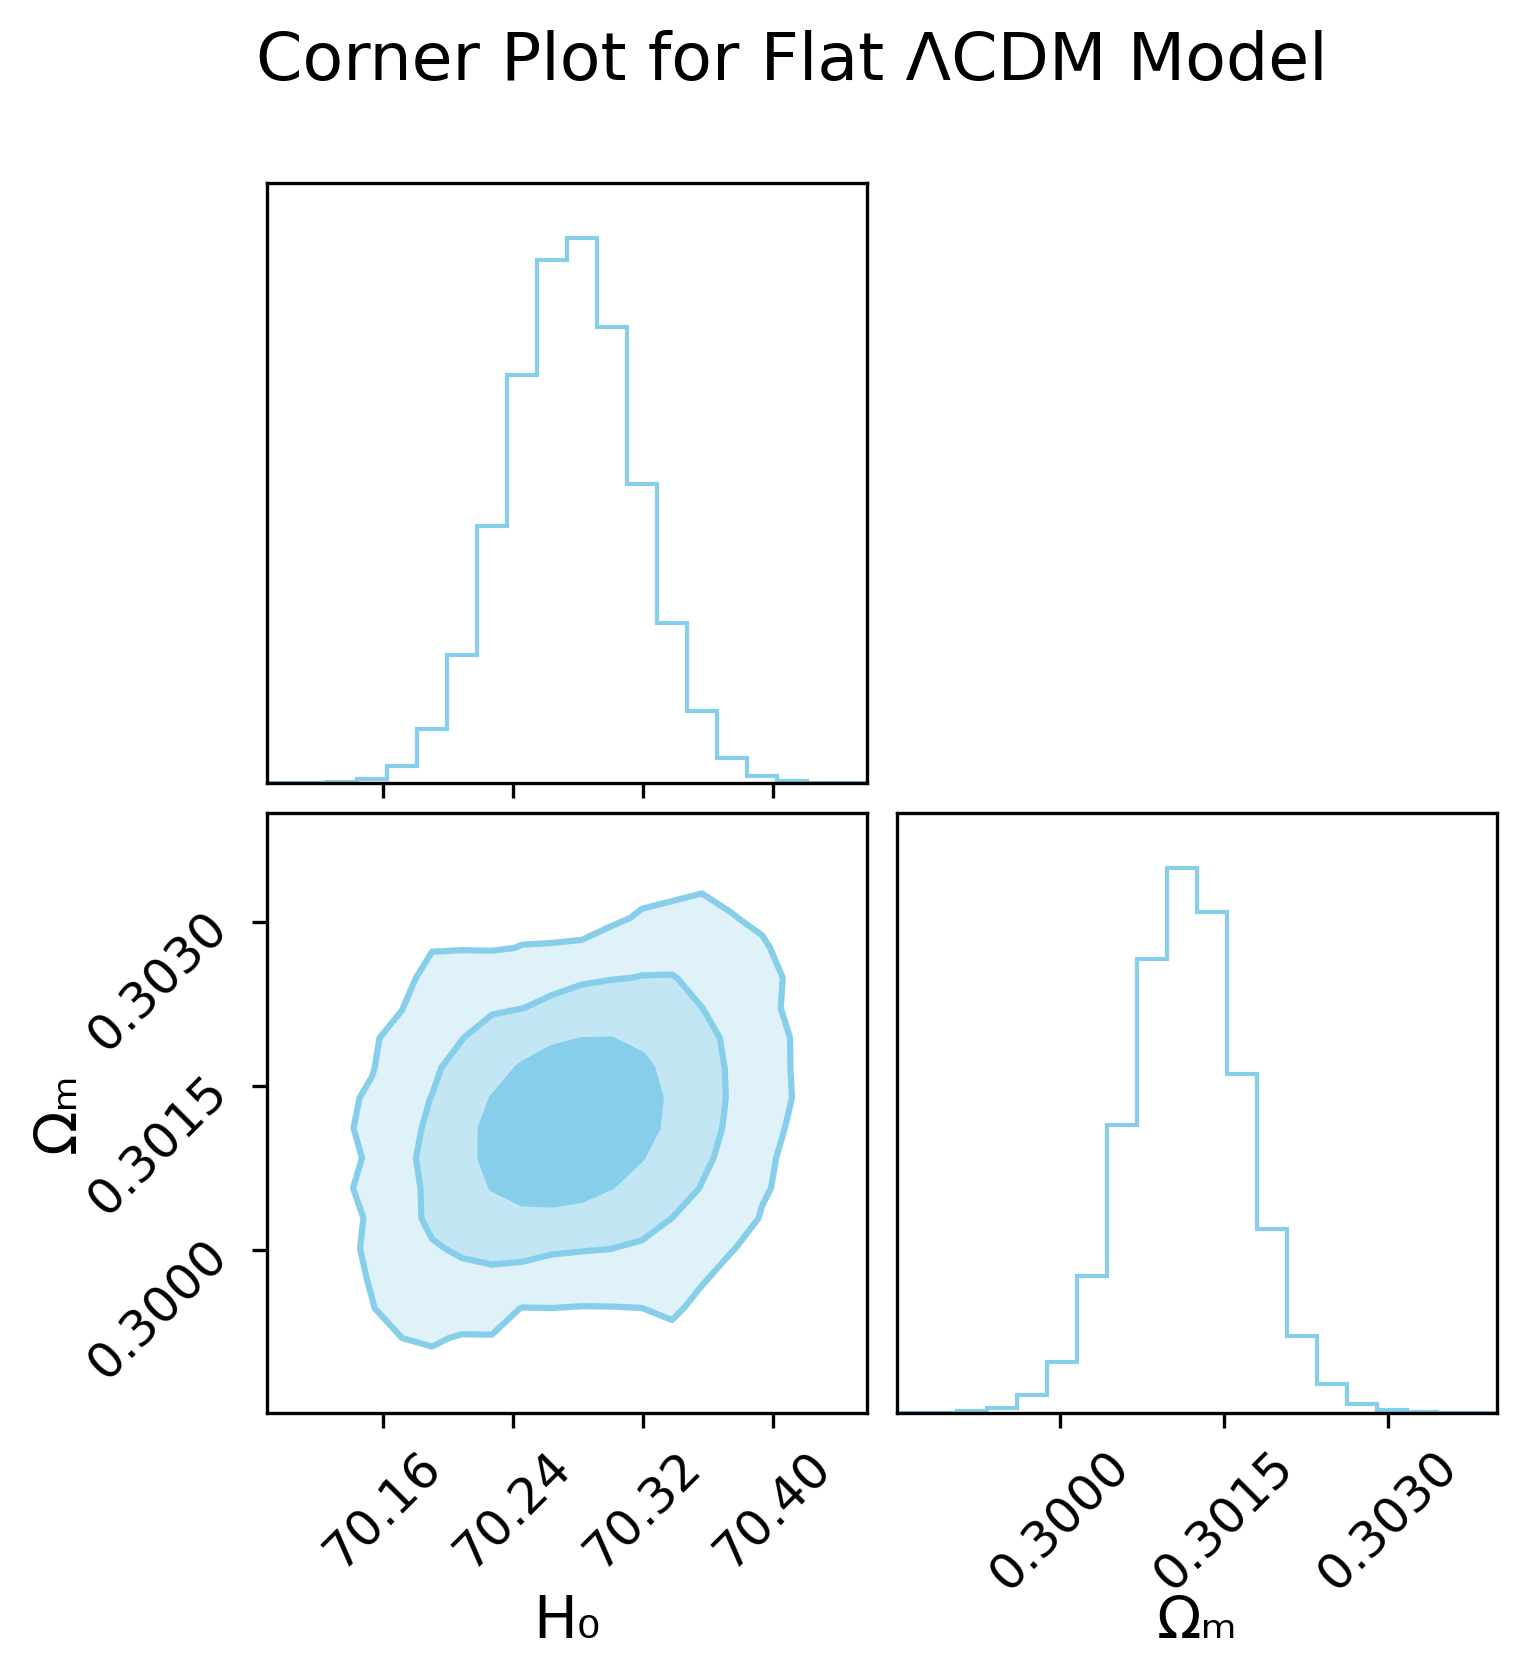
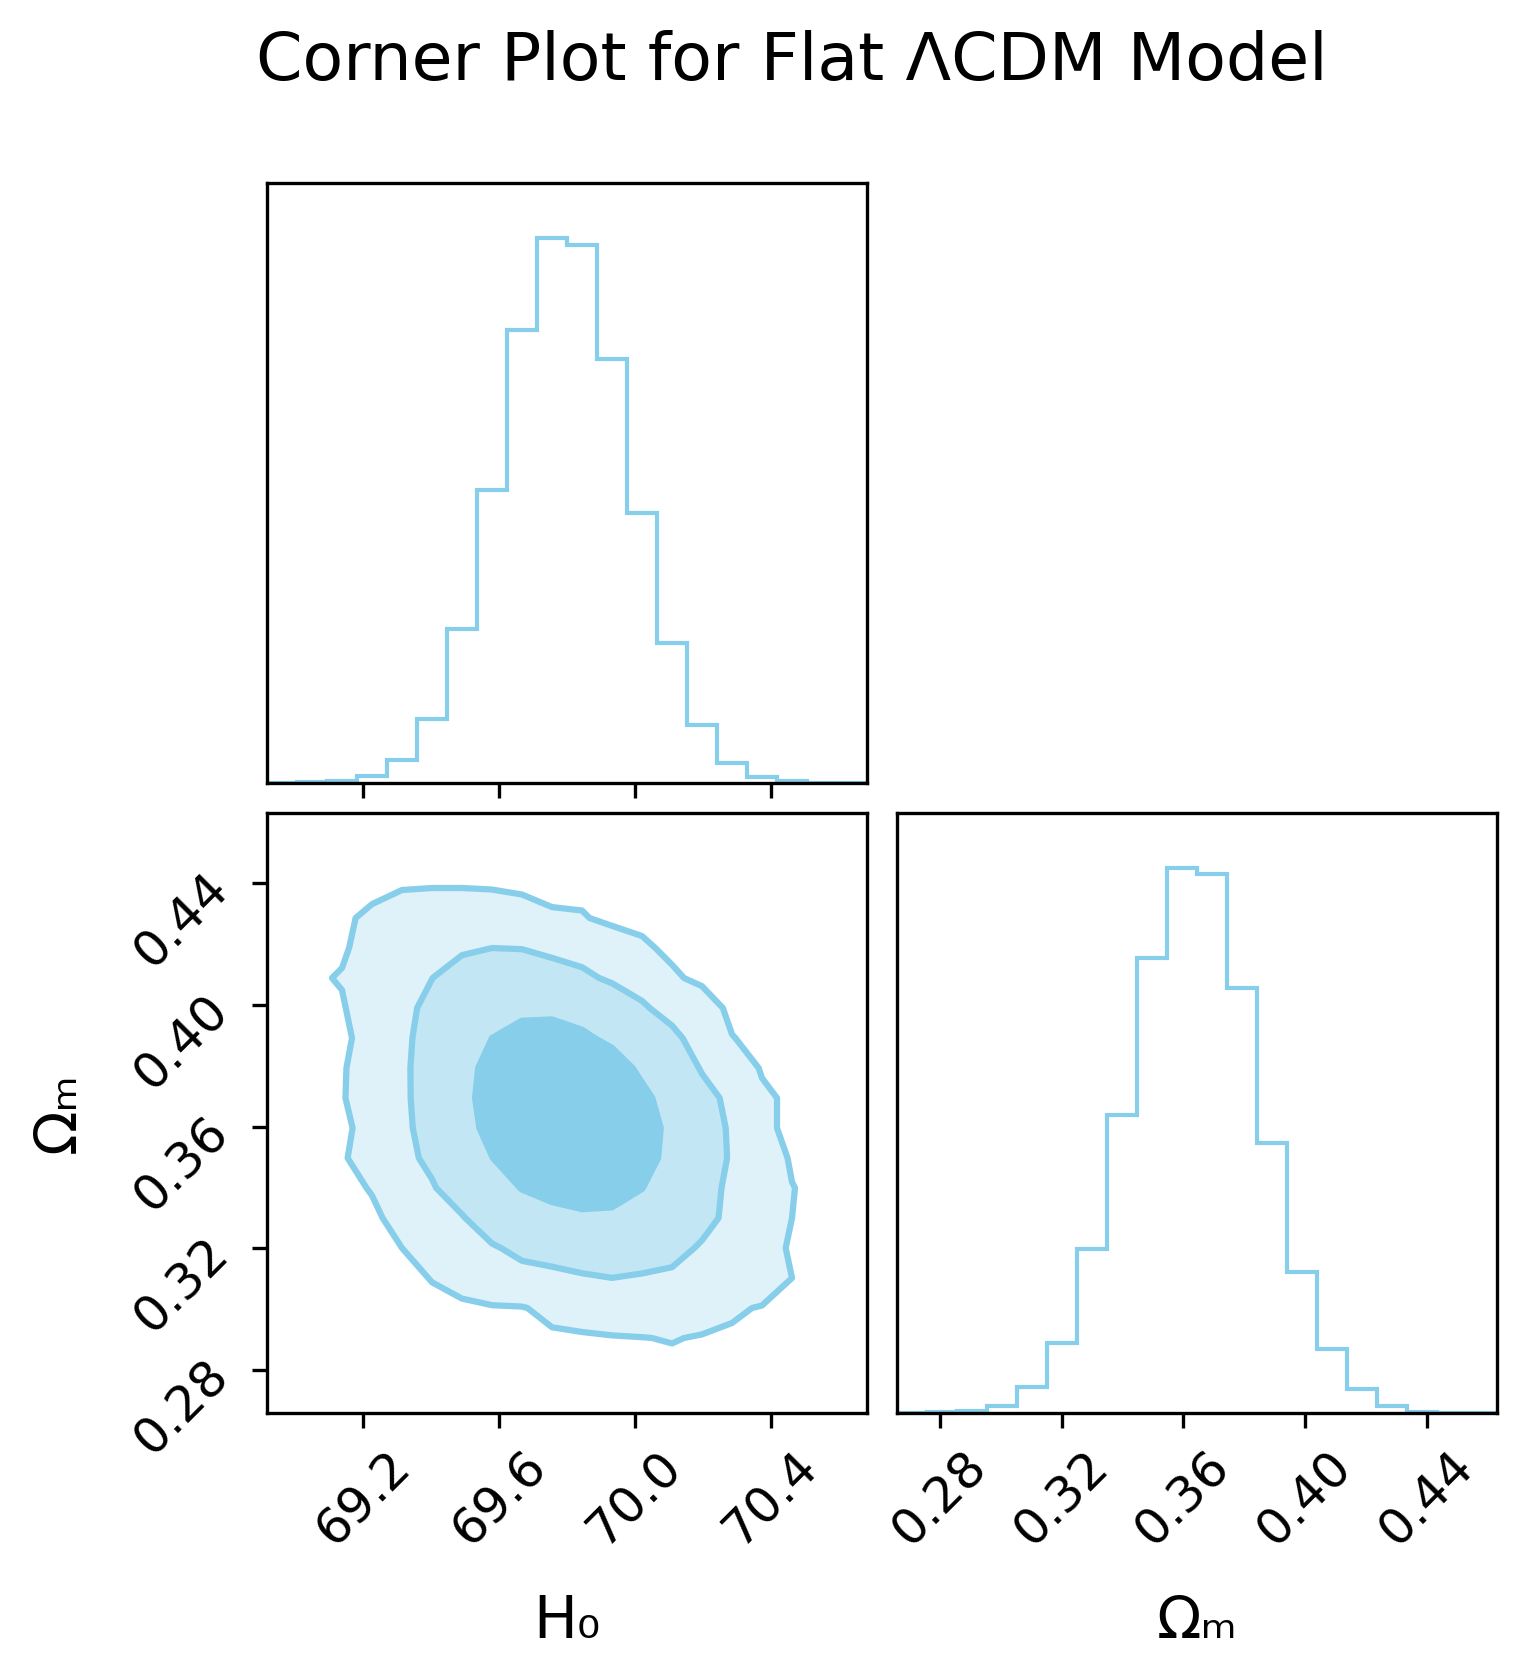
covarianze in simulated data

diff --git a/Supernova_project/sbi_cosmology.py b/Supernova_project/sbi_cosmology.py
@@ -1,17 +1,3 @@
-import os
-os.environ['PYTORCH_ENABLE_MPS_FALLBACK'] = '1'
-
-import torch
-import numpy as np
-import matplotlib.pyplot as plt
-from torch import nn
-from torch.distributions import Independent, Uniform, Normal, MultivariateNormal
-from sbi import inference as inference
-from sbi.neural_nets.factory import posterior_nn
-from sbi.analysis import pairplot
-import corner
-import random
-
 # Set global random seed at the very top of the file
 RANDOM_SEED = 42
 
@@ -28,6 +14,7 @@ from sbi import inference as inference
 from sbi.neural_nets.factory import posterior_nn
 from sbi.analysis import pairplot
 import corner
+import random
 
 # Set all random seeds
 def set_seed(seed):
@@ -75,13 +62,13 @@ class SBIConfig:
     # Parameter priors (mean, std)
     PARAM_PRIORS = {
         'flat': {
-            'H0': (70.0, 2.5),  # centered at 70 with std of 2.5
+            'H0': (70.0, 1.5),  # centered at 70 with std of 1.5
             'Om': (0.3, 0.05)   # centered at 0.3 with std of 0.05
         },
         'curved': {
-            'H0': (70.0, 2.5),
-            'Om': (0.3, 0.05),  # centered at 0.45 with std of (0.9-0)/4
-            'Ok': (0.0, 0.05)      # centered at 0 with std of 0.1
+            'H0': (70.0, 1.5),
+            'Om': (0.3, 0.05),  # centered at 0.3 with std of 0.05
+            'Ok': (0.0, 0.05)      # centered at 0 with std of 0.05
         }
     }
 
@@ -170,9 +157,21 @@ class CosmologicalSimulator:
             mu = self.distance_modulus(H0, Om, Ok)
         
         if cov_matrix is not None:
-            error = torch.distributions.MultivariateNormal(loc=mu, covariance_matrix=cov_matrix).sample()
-            mu = mu + error
-
+            # Create error distribution for each simulation
+            batch_size = len(params)
+            errors = torch.zeros_like(mu)
+            
+            # Sample errors for each simulation independently
+            for i in range(batch_size):
+                error_dist = MultivariateNormal(
+                    loc=torch.zeros_like(self.z),
+                    covariance_matrix=cov_matrix
+                )
+                errors[i] = error_dist.sample()
+            
+            # Add errors to simulated distance moduli
+            mu = mu + errors
+        
         # Return both z and mu for each simulation
         return torch.stack([self.z.expand(len(params), -1), mu], dim=-1)
     
@@ -229,7 +228,7 @@ def load_real_data():
     mu_err = torch.as_tensor(mu_err, dtype=torch.float32).clone().detach()
 
     # Create covariance matrix
-    cov_data = np.loadtxt(SBIConfig.DATA_PATH + 'Pantheon+SH0ES_STAT+SYS.cov')
+    cov_data = np.loadtxt(SBIConfig.DATA_PATH + 'Pantheon+SH0ES_STATONLY.cov')
     cov_matrix = _create_cov_mat(cov_data)
     
     return z_obs, mu_obs, mu_err, cov_matrix
@@ -427,38 +426,17 @@ class CosmologySBI:
         # Setup prior based on current model type
         self.setup_prior()
         
-        # Setup embedding network and neural posterior estimator
-        embedding_net = self.create_embedding_net()
-        
         # Initialize inference object with custom likelihood
         self.posterior_estimator = inference.SNPE(
             prior=self.prior,
             density_estimator="maf",  # Using MAF for better performance
-            show_progress_bars=True
+            show_progress_bars=True,
         )
         
         # Generate training data
         print("\nGenerating training data...")
         theta = self.prior.sample((SBIConfig.NUM_SIMULATIONS,))
-        x = self.simulator.simulate(theta)
-
-        # Print example of sampled parameters and simulated data
-        print("\nExample simulation:")
-        print(f"Sampled parameters (theta[0]):")
-        if self.simulator.model_type == "flat":
-            print(f"H₀ = {theta[0,0]:.2f} km/s/Mpc")
-            print(f"Ωₘ = {theta[0,1]:.2f}")
-        else:
-            print(f"H₀ = {theta[0,0]:.2f} km/s/Mpc")
-            print(f"Ωₘ = {theta[0,1]:.2f}")
-            print(f"Ωₖ = {theta[0,2]:.2f}")
-        
-        print("\nSimulated distance moduli (middle 5 redshift points):")
-        for i in range(len(self.z_obs)//2 - 2, len(self.z_obs)//2 + 3):
-            print(f"z = {self.z_obs[i]:.3f}: μ = {x[0,i,1]:.2f}")
-
-        # Create training data visualization
-        print("\nCreating training data visualization...")
+        x = self.simulator.simulate(theta, self.cov_matrix)
         plot_training_data(self.z_obs, self.mu_obs, self.mu_err, theta, x[:, :, 1], 
                           model_type=self.simulator.model_type)
         
@@ -487,7 +465,6 @@ class CosmologySBI:
         if num_samples is None:
             num_samples = SBIConfig.NUM_POSTERIOR_SAMPLES
         return self.posterior.sample((num_samples,), x=self.mu_obs)
-    # TODO: Mit fake daten neuen Posterior bilden, für die Daten kennen wir die Parameter
 
     def back_test_network(self):
         """Test the network with simulated data"""
@@ -729,63 +706,6 @@ def plot_model_comparison(samples_flat, samples_curved, data_type="real"):
                    dpi=300, bbox_inches='tight')
     plt.close()
     
-    # Create combined corner plot
-    # First, create comparable arrays by adding a zero curvature column to flat model
-    flat_samples_extended = np.column_stack([
-        samples_flat, 
-        np.zeros(len(samples_flat))  # Add Ok=0 column for flat model
-    ])
-    
-    # Create figure
-    fig = plt.figure(figsize=(12, 12))
-    plt.subplots_adjust(top=0.85)  # Increase space for title
-    
-    # Plot both models in the same corner plot with different colors
-    corner.corner(
-        flat_samples_extended,
-        labels=['H₀', 'Ωₘ', 'Ωₖ'],
-        color='skyblue',
-        plot_datapoints=False,
-        plot_density=False,
-        contours=True,
-        fill_contours=True,
-        levels=[0.68, 0.95, 0.997],
-        label='Flat',
-        title_kwargs={"fontsize": 16},
-        label_kwargs={"fontsize": 14},
-        range=ranges  # Add parameter ranges
-    )
-    
-    corner.corner(
-        samples_curved,
-        labels=['H₀', 'Ωₘ', 'Ωₖ'],
-        color='salmon',
-        plot_datapoints=False,
-        plot_density=False,
-        contours=True,
-        fill_contours=True,
-        levels=[0.68, 0.95, 0.997],
-        label='Curved',
-        fig=fig,
-        title_kwargs={"fontsize": 16},
-        label_kwargs={"fontsize": 14},
-        range=ranges  # Add parameter ranges
-    )
-    
-    plt.suptitle(
-        'Corner Plot Comparison of Flat and Curved ΛCDM Models' +
-        (" (Simulated Data)" if data_type=="fake" else ""),
-        fontsize=16,
-        y=0.95  # Adjust title position
-    )
-    
-    if data_type == "fake":
-        plt.savefig(f'{SBIConfig.PLOT_PATH}sbi_model_comparison_corner_fake.png', 
-                   dpi=300, bbox_inches='tight')
-    else:
-        plt.savefig(f'{SBIConfig.PLOT_PATH}sbi_model_comparison_corner.png', 
-                   dpi=300, bbox_inches='tight')
-    plt.close()
 
 if __name__ == "__main__":
     set_seed(RANDOM_SEED)  # Set seed at start of main
